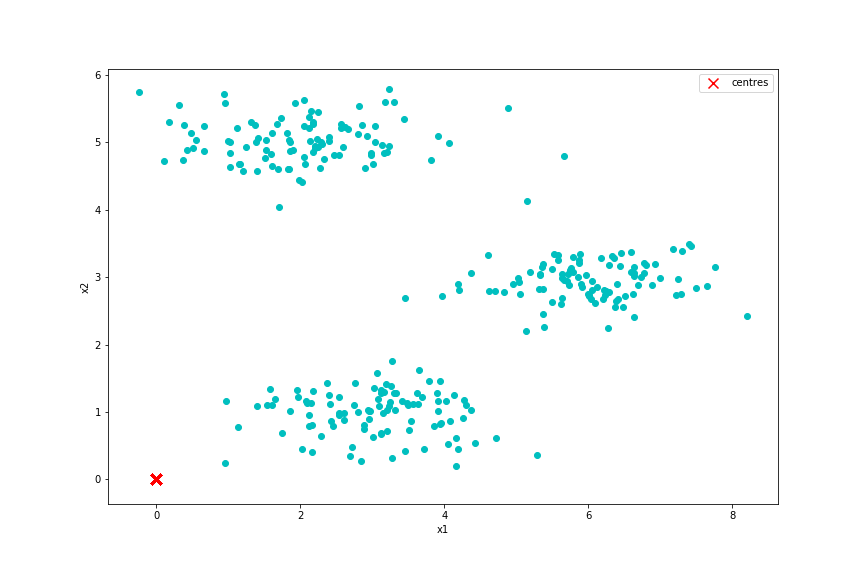
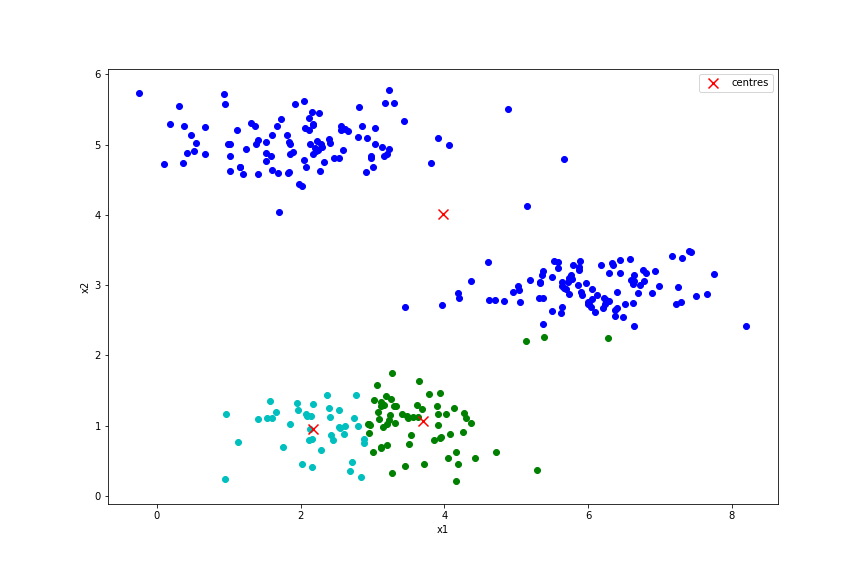
svm implemented

diff --git a/Assignment-2/svm/main.py b/Assignment-2/svm/main.py
@@ -1,0 +1,200 @@
+import numpy as np
+import matplotlib.pyplot as plt
+
+def plotData(X,y):
+  # plots the data points with o for the positive examples and x for the negative examples. output is saved to file graph.png
+  fig, ax = plt.subplots(figsize=(12,8))
+  ##### insert your code here #####
+  positive = y>0
+  negative = y<0
+ 
+  ax.scatter(X[positive,0], X[positive,1], c='b', marker='o', label='Healthy')
+  ax.scatter(X[negative,0], X[negative,1], c='r', marker='x', label='Not Healthy')
+
+  ax.set_xlabel('Test 1')
+  ax.set_ylabel('Test 2')  
+  fig.savefig('graph.png') 
+  
+def predict(X,theta):
+  ##### replace the next line with your code #####
+  pred = X.dot(theta.transpose())
+  return np.sign(pred)
+
+def computeCost(X, y, theta, lambd):
+  # function calculates the cost J(theta) and returns its value
+  ##### replace the next line with your code #####
+  
+  penalty_adjustment = np.multiply(lambd, theta.T.dot(theta))
+  
+  
+  y_x_theta = np.multiply(y, predict(X, theta))
+  hinge = [ max(0 - elem, 1 - elem) for elem in y_x_theta]
+ 
+  j_theta = np.mean(hinge) + penalty_adjustment
+  cost = j_theta
+  return cost
+
+def computeGradient(X,y,theta,lambd):
+  # calculate the gradient of J(theta) and return its value
+  ##### replace the next lines with your code #####
+
+  m, n = X.shape
+  
+  y_x_theta = np.multiply(y, predict(X, theta))
+
+  # solving for indicator function
+  indicator_fn = np.where(y_x_theta <= 1, 1.0, 0.0)
+
+  grad = np.multiply(2*lambd,theta.transpose()) - (np.dot(X.transpose(),np.multiply(y, indicator_fn))) / len(y)
+  
+  return grad
+  
+
+def gradientDescent(X, y, theta,lambd):
+  # iteratively update parameter vector theta
+  
+  # initialize variables for learning rate and iterations
+  alpha = 0.02
+  iters = 5000
+  cost = np.zeros(iters)
+  (m,n)=X.shape
+  theta= np.zeros(n)
+  # let's use a reasonable starting point for theta (the value we obtained in the logistic regression assignment)
+  #theta=[3.08,2.97,3.69,-5.36]
+  
+  for i in range(iters):
+    theta = theta - alpha * computeGradient(X,y,theta,lambd)
+    cost[i] = computeCost(X, y, theta,lambd)
+  print(theta)
+  return theta, cost
+
+def normaliseData(x):
+  # rescale data to lie between 0 and 1
+  scale = x.max(axis=0)
+  return (x/scale, scale)
+
+def addQuadraticFeature(X):
+  # Given feature vector [x_1,x_2] as input, extend this to
+  # [x_1,x_2,x_1*x_1] i.e. add a new quadratic feature
+  ##### insert your code here #####
+  additional_column = X[:, 0] * X[:, 0]
+  additional_column = np.reshape(additional_column, (len(additional_column), 1))
+  X = np.concatenate((X, additional_column), axis = 1)
+  return X
+
+def computeScore(X,y,preds):
+  # for training data X,y it calculates the number of correct predictions made by the model
+  ##### replace the next line with your code #####
+  correctPreds = 0
+  for i in range(len(preds)):
+    if(y[i] == preds[i]):
+        correctPreds += 1
+        
+  score = correctPreds
+  return score
+
+def plotDecisionBoundary(Xt,y,Xscale,theta):
+  # plots the training data plus the decision boundary in the model
+  fig, ax = plt.subplots(figsize=(12,8))
+  # plot the data
+  positive = y>0
+  negative = y<0
+  ax.scatter(Xt[positive,1]*Xscale[1], Xt[positive,2]*Xscale[2], c='b', marker='o', label='Healthy')
+  ax.scatter(Xt[negative,1]*Xscale[1], Xt[negative,2]*Xscale[2], c='r', marker='x', label='Not Healthy')
+  # calc the decision boundary
+  x=np.linspace(Xt[:,2].min()*Xscale[2],Xt[:,2].max()*Xscale[2],50)
+  if (len(theta) == 3):
+    # linear boundary
+    x2 = -(theta[0]/Xscale[0]+theta[1]*x/Xscale[1])/theta[2]*Xscale[2]
+  else:
+    # quadratic boundary
+    x2 = -(theta[0]/Xscale[0]+theta[1]*x/Xscale[1]+theta[3]*np.square(x)/Xscale[3])/theta[2]*Xscale[2]
+  # and plot it
+  ax.plot(x,x2,label='Decision boundary')
+  ax.legend()
+  ax.set_xlabel('Test 1')
+  ax.set_ylabel('Test 2')  
+  fig.savefig('pred.png') 
+
+def plotDecisionBoundary2(Xt,y,Xscale,model):
+  # plots the training data plus the decision boundary when using a kernel SVM
+  fig, ax = plt.subplots(figsize=(12,8))
+  # plot the data
+  positive = y>0
+  negative = y<0
+  ax.scatter(Xt[positive,1]*Xscale[1], Xt[positive,2]*Xscale[2], c='b', marker='o', label='Healthy')
+  ax.scatter(Xt[negative,1]*Xscale[1], Xt[negative,2]*Xscale[2], c='r', marker='x', label='Not Healthy')
+  # calc the decision boundary
+  x_min, x_max = Xt.min() - 0.1, Xt.max() + 0.1
+  y_min, y_max = y.min() - 0.1, y.max() + 0.1
+  xx, yy = np.meshgrid(np.arange(x_min, x_max, 0.05), np.arange(y_min, y_max, 0.05))
+  Z = model.predict(np.column_stack((np.ones(xx.ravel().shape),xx.ravel(), yy.ravel(), np.square(xx.ravel()))))
+  Z = Z.reshape(xx.shape)
+  ax.contour(xx*Xscale[1], yy*Xscale[2], Z)
+  ax.legend()
+  ax.set_xlabel('Test 1')
+  ax.set_ylabel('Test 2')  
+  fig.savefig('pred2.png')
+  
+def main():
+  # load the training data
+  data=np.loadtxt('health.csv')
+  X=data[:,[0,1]]
+  y=data[:,2]
+  X=addQuadraticFeature(X)  
+ 
+  # and plot it so we can see how it looks 
+  plotData(X,y)
+
+  # add a column of ones to input data
+  m=len(y)
+  Xt = np.column_stack((np.ones((m, 1)), X))
+  (m,n)=Xt.shape # m is number of data points, n number of features
+
+  # rescale training data to lie between 0 and 1
+  (Xt,Xscale) = normaliseData(Xt)
+  
+  lambd= 0.01
+
+  print('testing the prediction function ...')
+  theta=np.arange(1,n+1)
+  print('when x=[1,1,1] and theta is [1,2,3]) predictions = ',predict(np.ones(n),theta))
+  print('when x=[-1,-1,-1] and theta is [1,2,3]) prediction = ',predict(-np.ones(n),theta))
+  print('approx expected predictions are 1 and -1')
+  input('Press Enter to continue...')
+  print('testing the cost function ...')
+  theta=np.zeros(n)
+  print('when theta is zero cost = ',computeCost(Xt,y,theta,lambd))
+  print('approx expected cost value is 1.0')
+  input('Press Enter to continue...')
+
+  # calculate the gradient when theta is zero
+  print('testing the gradient function ...')
+  print('when theta is zero gradient = ',computeGradient(Xt,y,theta,lambd))
+  print('approx expected gradient value is [-0.049,-0.074,-0.099,0.086]')
+  input('Press Enter to continue...')
+   
+  # perform gradient descent to "fit" the model parameters
+  print('running gradient descent ...')
+  theta, cost = gradientDescent(Xt, y, theta,lambd)
+  print('after running gradientDescent() theta=',theta)
+  print('approx expected value is [3.08,2.97,3.69,-5.36], or values with about the same ratio')
+ 
+  # plot the prediction
+  plotDecisionBoundary(Xt,y,Xscale,theta)
+
+  preds = predict(Xt,theta)
+  score = computeScore(Xt,y,preds)
+  print('accuracy = {0:.2f}%'.format(score/len(y)*100))
+  print('expected value is about 78%')
+
+  # plot how the cost varies as the gradient descent proceeds
+  fig2, ax2 = plt.subplots(figsize=(12, 8))
+  ax2.semilogy(cost,'r')
+  ax2.set_xlabel('iteration')
+  ax2.set_ylabel('cost')
+  fig2.savefig('cost.png')
+
+if __name__ == '__main__':
+  main()
+

diff --git a/Assignment-2/clustering_kmeans/main.py b/Assignment-2/clustering_kmeans/main.py
@@ -5,9 +5,6 @@ def distance(X,mu):
   # calculate the euclidean distance between numpy arrays X and mu
   (m,n)=X.shape
   d=np.zeros(m)
-  ##### insert your code here #####
-  #print("X Shape", X.shape)  
-  #print("MU Shape", mu.shape)
   
   sub_res = np.power(X - mu, 2)
   d = [np.sum(t) for t in sub_res]
@@ -20,7 +17,7 @@ def findClosestCentres(X,mu):
   (m,n)=X.shape # m is number of data points
   C=list()
   
-  for t in range(mu.size):
+  for t in range(k):
       C.append([])
   
   i = 0
@@ -41,9 +38,22 @@ def updateCentres(X,C):
   # updates the centres to be the average of the points closest to it.  
   k=len(C) # k is number of centres
   (m,n)=X.shape # n is number of features
-  mu=np.zeros((k,n))
+  mu=[]
   ##### insert your code here #####
-  return mu
+  
+  i = 0
+  
+  for c in C:
+      x_belonging_to_c = []
+      for index in c:
+          x_belonging_to_c.append(X[index])
+    
+      x_belonging_to_c = np.array(x_belonging_to_c)
+      mu.append(np.sum(x_belonging_to_c, axis = 0) / len(x_belonging_to_c))
+      
+      i += 1
+  
+  return np.array(mu)
 
 def plotData(X,C,mu):
   # plot the data, coloured according to which centre is closest. and also plot the centres themselves
